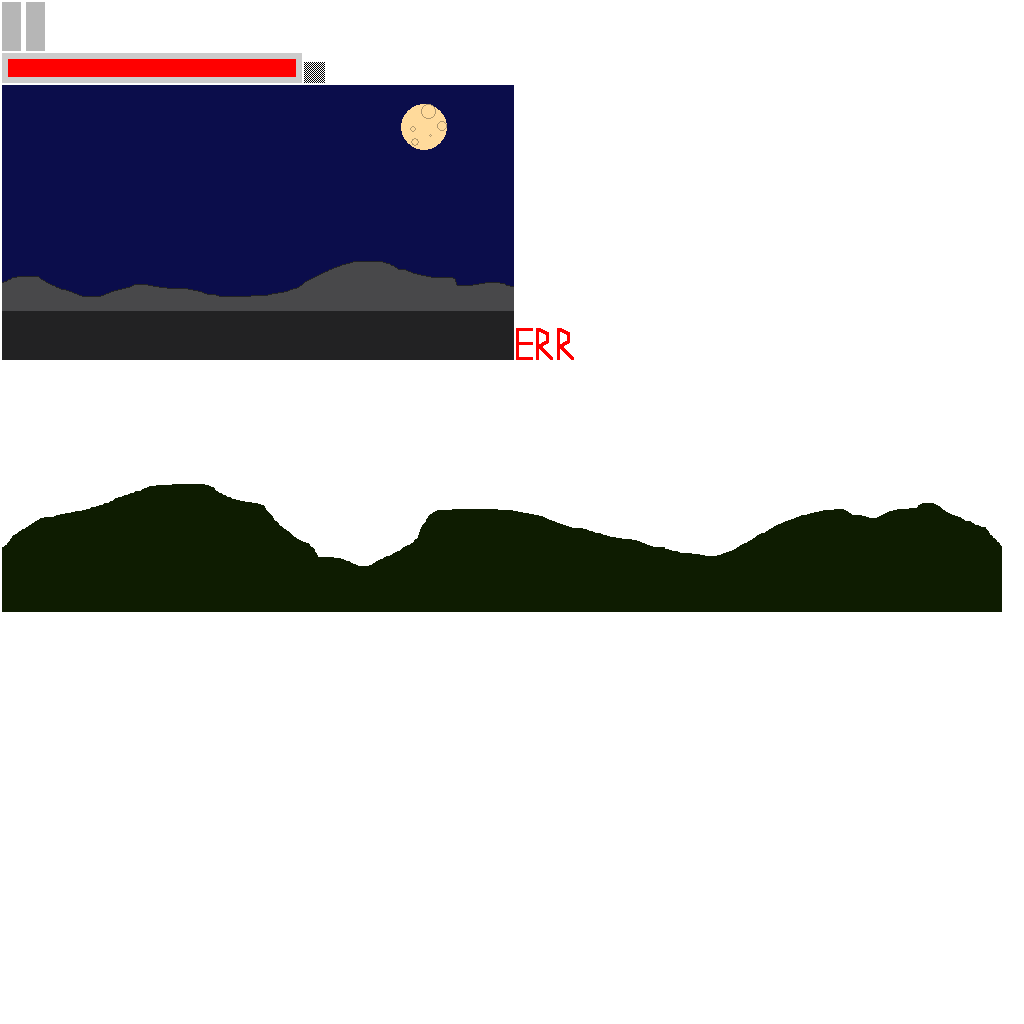
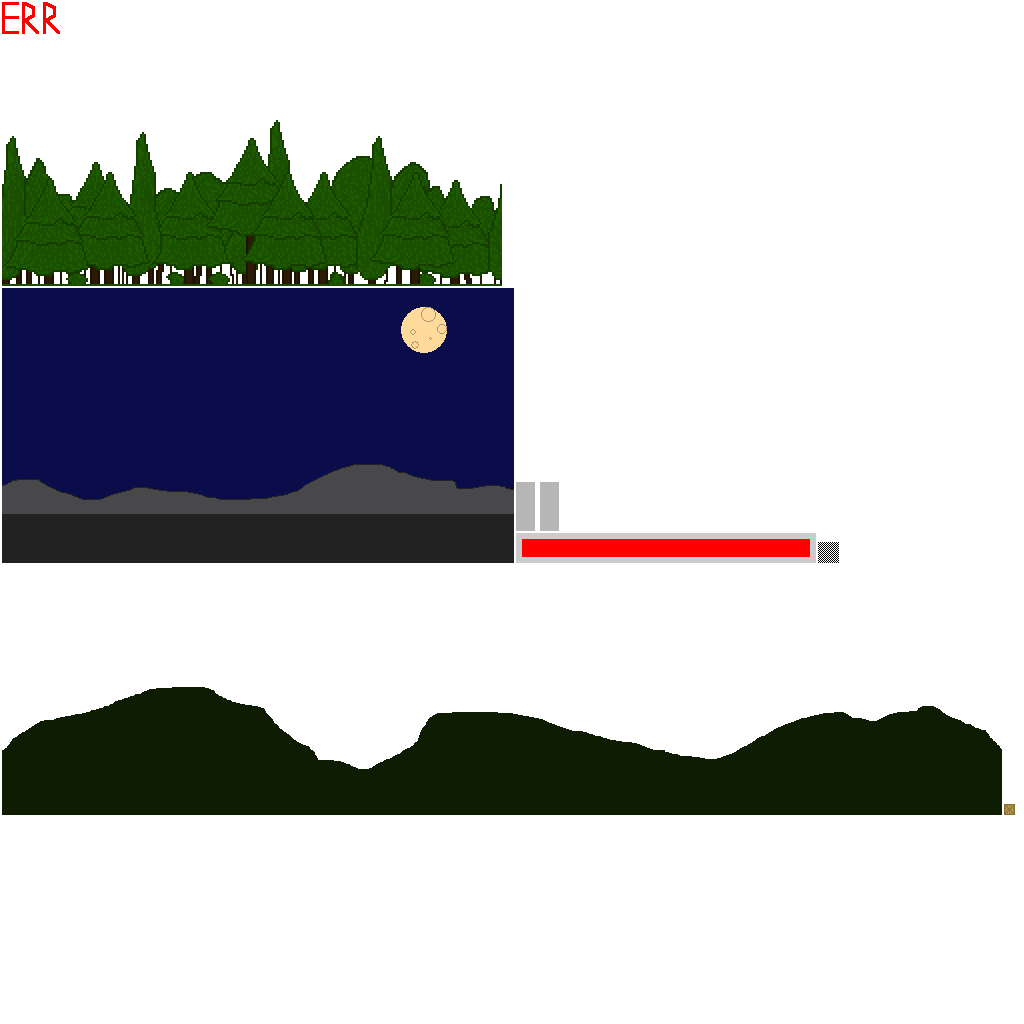
new background and other minor improvements

diff --git a/core/src/com/matthewmohandiss/zombiegame/MainMenu.java b/core/src/com/matthewmohandiss/zombiegame/MainMenu.java
@@ -29,7 +29,7 @@ public class MainMenu extends ScreenAdapter implements InputProcessor {
 		initBox2D();
 		createPlayer();
 		createBackground();
-		createTest();
+		createCrate();
 
 		ControlSystem controlSystem = new ControlSystem(window.engine.getEntitiesFor(Family.all(PlayerComponent.class).get()).first());
 		controlSystem.priority = 0;
@@ -64,14 +64,16 @@ public class MainMenu extends ScreenAdapter implements InputProcessor {
 		BodyDef bodyDef = new BodyDef();
 		bodyDef.type = BodyDef.BodyType.DynamicBody;
 		bodyDef.position.set(position.x, position.y);
+		bodyDef.fixedRotation = true;
+		bodyDef.linearDamping = 0.5f;
 		Body body = physicsWorld.createBody(bodyDef);
 		PolygonShape shape = new PolygonShape();
 		shape.setAsBox(size.width / 2, size.height / 2);
 
 		FixtureDef fixtureDef = new FixtureDef();
 		fixtureDef.shape = shape;
-		fixtureDef.density = 0.25f;
-		fixtureDef.friction = 0.6f;
+		fixtureDef.density = .13f;
+		fixtureDef.friction = 0.9f;
 
 		body.createFixture(fixtureDef);
 		physicsComponent.physicsBody = body;
@@ -129,7 +131,7 @@ public class MainMenu extends ScreenAdapter implements InputProcessor {
 		Mappers.cm.get(cam).target = zombie;
 	}
 
-	private void createTest() {
+	private void createCrate() {
 		Entity test = window.engine.createEntity();
 
 		PositionComponent position = window.engine.createComponent(PositionComponent.class);
@@ -139,13 +141,32 @@ public class MainMenu extends ScreenAdapter implements InputProcessor {
 		test.add(position);
 
 		SizeComponent size = window.engine.createComponent(SizeComponent.class);
-		size.width = Assets.test.getRegionWidth();
-		size.height = Assets.test.getRegionHeight();
+		size.width = Assets.crate.getRegionWidth();
+		size.height = Assets.crate.getRegionHeight();
 		test.add(size);
 
 		TextureComponent texture = window.engine.createComponent(TextureComponent.class);
-		texture.texture = Assets.test;
+		texture.texture = Assets.crate;
 		test.add(texture);
+
+		PhysicsComponent physicsComponent = window.engine.createComponent(PhysicsComponent.class);
+		BodyDef bodyDef = new BodyDef();
+		bodyDef.type = BodyDef.BodyType.DynamicBody;
+		bodyDef.position.set(position.x, position.y);
+		Body body = physicsWorld.createBody(bodyDef);
+		PolygonShape shape = new PolygonShape();
+		shape.setAsBox(size.width / 2, size.height / 2);
+
+		FixtureDef fixtureDef = new FixtureDef();
+		fixtureDef.shape = shape;
+		fixtureDef.density = 1.5f;
+		fixtureDef.friction = 0.9f;
+
+		body.createFixture(fixtureDef);
+		physicsComponent.physicsBody = body;
+		physicsComponent.maxVelocity = 30;
+		shape.dispose();
+		test.add(physicsComponent);
 
 		window.engine.addEntity(test);
 	}
@@ -154,18 +175,18 @@ public class MainMenu extends ScreenAdapter implements InputProcessor {
 		Entity background = window.engine.createEntity();
 
 		PositionComponent position = window.engine.createComponent(PositionComponent.class);
-		position.x = Assets.background.getRegionWidth()/2;
-		position.y = Assets.background.getRegionHeight()/2;
+		position.x = Assets.forest_background.getRegionWidth() / 2;
+		position.y = Assets.forest_background.getRegionHeight() / 2;
 		position.z = 0;
 		background.add(position);
 
 		SizeComponent size = window.engine.createComponent(SizeComponent.class);
-		size.width = Assets.background.getRegionWidth();
-		size.height = Assets.background.getRegionHeight();
+		size.width = Assets.forest_background.getRegionWidth();
+		size.height = Assets.forest_background.getRegionHeight();
 		background.add(size);
 
 		TextureComponent texture = window.engine.createComponent(TextureComponent.class);
-		texture.texture = Assets.background;
+		texture.texture = Assets.forest_background;
 		background.add(texture);
 
 		PhysicsComponent physicsComponent = window.engine.createComponent(PhysicsComponent.class);
@@ -179,7 +200,10 @@ public class MainMenu extends ScreenAdapter implements InputProcessor {
 		vertices[2] = new Vector2(size.width / 2, size.height / 2);
 		vertices[3] = new Vector2(size.width / 2, -size.height / 2);
 		loop.createLoop(vertices);
-		body.createFixture(loop, 0.0f);
+		FixtureDef fixtureDef = new FixtureDef();
+		fixtureDef.shape = loop;
+		fixtureDef.friction = 1.5f;
+		body.createFixture(fixtureDef);
 		physicsComponent.physicsBody = body;
 		loop.dispose();
 		background.add(physicsComponent);
@@ -206,30 +230,30 @@ public class MainMenu extends ScreenAdapter implements InputProcessor {
 	@Override
 	public boolean keyDown(int keycode) {
 		Entity player = window.engine.getEntitiesFor(Family.all(PlayerComponent.class).get()).first();
-			switch (keycode) {
-				case 19: //up
-					window.engine.getSystem(ControlSystem.class).jump();
-					break;
-				case 21: //left
-					window.engine.getSystem(ControlSystem.class).moveLeft();
-					break;
-				case 22: //right
-					window.engine.getSystem(ControlSystem.class).moveRight();
-					break;
-				case 62: //space
-					window.engine.getSystem(ControlSystem.class).shoot();
-					break;
-				case 69: //minus
-					window.camera.zoom += 0.25;
-					break;
-				case 70: //plus
-					if (window.camera.zoom > 0) {
-						window.camera.zoom -= 0.25;
-					}
-					break;
-				default:
-					System.out.println("no keybind for keycode " + keycode);
-			}
+		switch (keycode) {
+			case 19: //up
+				window.engine.getSystem(ControlSystem.class).jump();
+				break;
+			case 21: //left
+				window.engine.getSystem(ControlSystem.class).moveLeft();
+				break;
+			case 22: //right
+				window.engine.getSystem(ControlSystem.class).moveRight();
+				break;
+			case 62: //space
+				window.engine.getSystem(ControlSystem.class).shoot();
+				break;
+			case 69: //minus
+				window.camera.zoom += 0.25;
+				break;
+			case 70: //plus
+				if (window.camera.zoom > 0) {
+					window.camera.zoom -= 0.25;
+				}
+				break;
+			default:
+				System.out.println("no keybind for keycode " + keycode);
+		}
 		return false;
 	}
 
@@ -272,7 +296,7 @@ public class MainMenu extends ScreenAdapter implements InputProcessor {
 		window.engine.update(delta);
 		//http://gafferongames.com/game-physics/fix-your-timestep/
 		debugRenderer.render(physicsWorld, window.camera.combined);
-		physicsWorld.step(1/60f, 6, 2);
+		physicsWorld.step(1 / 60f, 6, 2);
 	}
 
 }

diff --git a/core/src/com/matthewmohandiss/zombiegame/systems/ControlSystem.java b/core/src/com/matthewmohandiss/zombiegame/systems/ControlSystem.java
@@ -41,10 +41,10 @@ public class ControlSystem extends EntitySystem {
 	}
 
 	public void jump() {
-		if (stateComponent.state != PlayerState.jumping) {
+		if (stateComponent.state != PlayerState.jumping && stateComponent.state != PlayerState.falling) {
 			stateComponent.set(PlayerState.jumping);
 			animationComponent.loop = false;
-			physicsBody.applyLinearImpulse(0, 2500f, Mappers.pm.get(player).x, Mappers.pm.get(player).y, true);
+			physicsBody.applyLinearImpulse(0, 1500, Mappers.pm.get(player).x, Mappers.pm.get(player).y, true);
 		}
 	}
 
@@ -63,10 +63,13 @@ public class ControlSystem extends EntitySystem {
 		super.update(deltaTime);
 		switch (stateComponent.state) {
 			case idle:
+				if (physicsBody.getLinearVelocity().y == 0 && Math.abs(physicsBody.getLinearVelocity().x) > 5) {
+					physicsBody.setLinearVelocity(0, 0);
+				}
 				break;
 			case running:
 				if (animationComponent.flipped && physicsBody.getLinearVelocity().x > -Mappers.phm.get(player).maxVelocity) {
-					physicsBody.applyLinearImpulse(-50f, 0, Mappers.pm.get(player).x, Mappers.pm.get(player).y, true);
+					physicsBody.applyLinearImpulse(-100f, 0, Mappers.pm.get(player).x, Mappers.pm.get(player).y, true);
 				} else if (!animationComponent.flipped && physicsBody.getLinearVelocity().x < Mappers.phm.get(player).maxVelocity) {
 					physicsBody.applyLinearImpulse(100f, 0, Mappers.pm.get(player).x, Mappers.pm.get(player).y, true);
 				}
@@ -74,6 +77,8 @@ public class ControlSystem extends EntitySystem {
 			case jumping:
 				if (physicsBody.getLinearVelocity().y < 0) {
 					stateComponent.set(PlayerState.falling);
+				} else if (physicsBody.getLinearVelocity().y > 0) {
+					Mappers.tm.get(player).texture = Mappers.am.get(player).idleTexture;
 				}
 				break;
 			case falling:

diff --git a/core/src/com/matthewmohandiss/zombiegame/Assets.java b/core/src/com/matthewmohandiss/zombiegame/Assets.java
@@ -16,6 +16,7 @@ import com.badlogic.gdx.utils.Array;
 public class Assets {
 	public static TextureAtlas pack;
 	public static TextureRegion background;
+	public static TextureRegion forest_background;
 	public static TextureRegion health;
 	public static TextureRegion mountains;
 	public static TextureRegion pause;
@@ -28,6 +29,7 @@ public class Assets {
 	public static Array<TextureAtlas.AtlasRegion> player_shoot;
 	public static Array<TextureAtlas.AtlasRegion> zombie_run;
 	public static TextureRegion zombie_idle;
+	public static TextureRegion crate;
 
 	//	public static Music music;
 	public static Sound clickSound;
@@ -51,6 +53,8 @@ public class Assets {
 		zombie_run = pack.findRegions("zombie_run");
 		zombie_idle = loadTexture("zombie_idle");
 		player_fall = loadTexture("player_fall");
+		forest_background = loadTexture("forest_background");
+		crate = loadTexture("crate");
 
 		clickSound = Gdx.audio.newSound(Gdx.files.internal("click.wav"));
 
